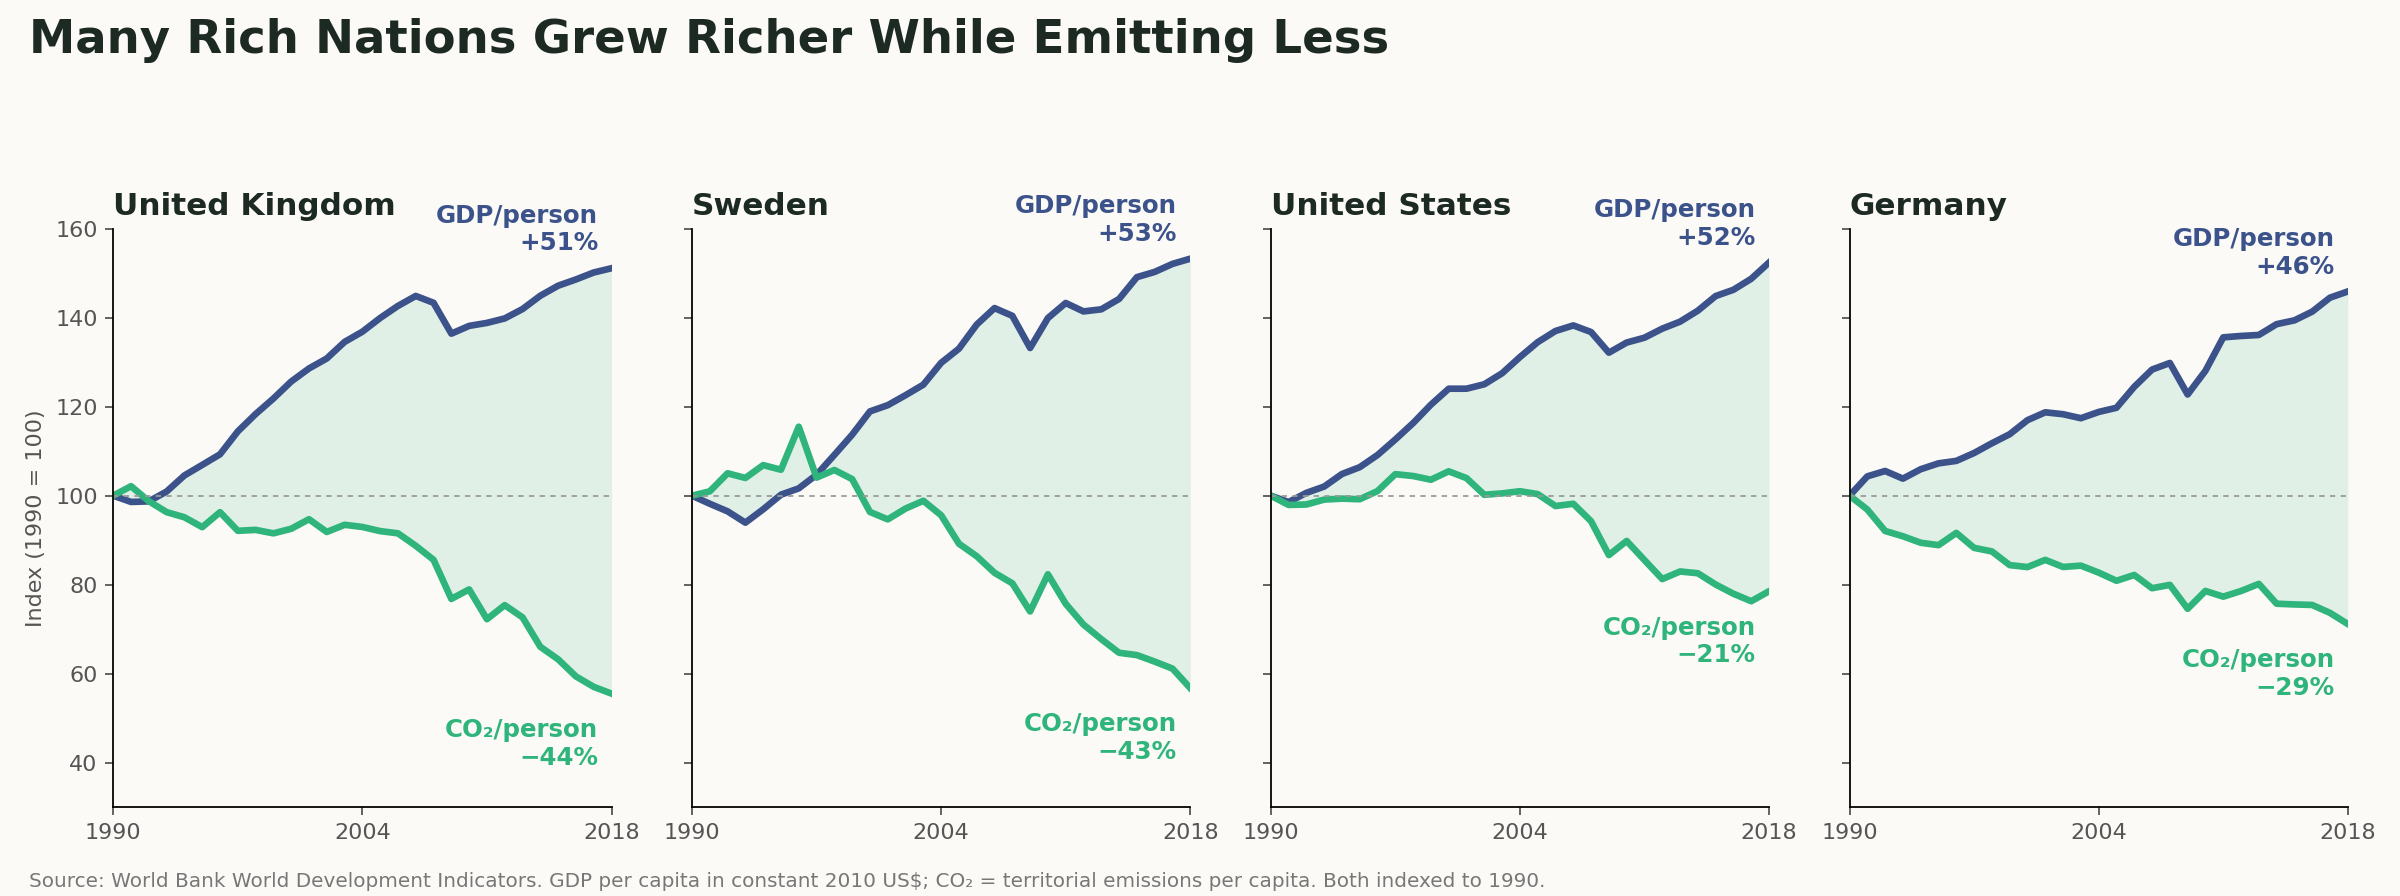
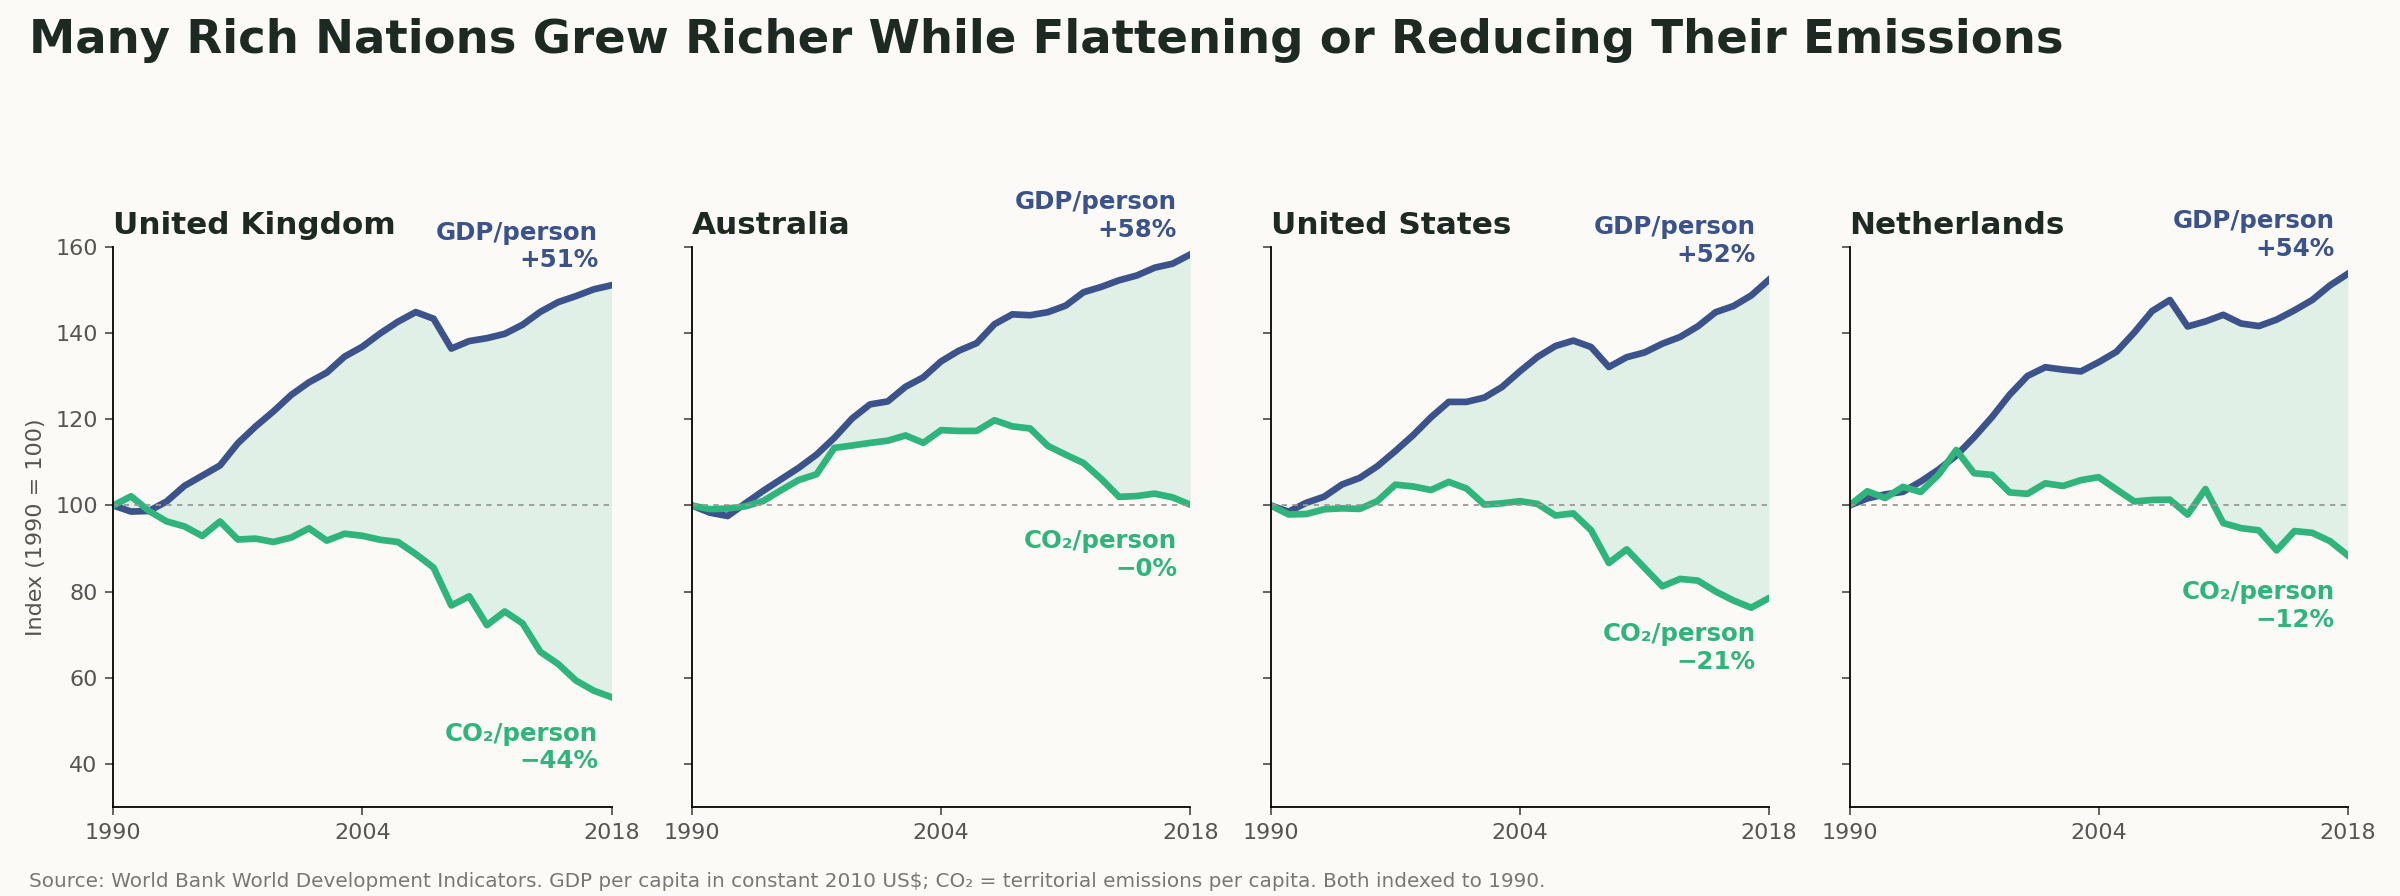
update

diff --git a/projects/project2/index.html b/projects/project2/index.html
@@ -182,23 +182,22 @@
 
         <figure>
           <img src="page1_viz1_decoupling_real_lines.png"
-               alt="Four small-multiple line charts for the United Kingdom, Sweden, United States and Germany, 1990 to 2018. In each, GDP per person (blue) rises above an index of 100 while CO2 per person (green) falls below it, with the gap between them shaded green.">
-          <figcaption>GDP and CO<sub>2</sub> per person, indexed to 1990 (=100) levels, for four high-income countries. In each country the economy grew while per-capita emissions fell.</figcaption>
+               alt="Four small-multiple line charts for the United Kingdom, Australia, United States and Netherlands, 1990 to 2018. In each, GDP per person (blue) rises above an index of 100 while CO2 per person (green) falls below it, with the gap between them shaded green.">
+          <figcaption>GDP and CO<sub>2</sub> per person, indexed to 1990 (=100) levels, for four high-income countries. In each country the economy grew while per-capita emissions fell or flattened.</figcaption>
         </figure>
 
         <p>Design Decisions and Rationale:</p>
 
         <ul>
           <li>
-            <span class="score dec">−1</span>
-            <strong>Hand-picked countries with 1990 as a reference point.</strong>
+            <span class="score dec">−0.5</span>
+            <strong>Hand-picked countries representing different regions with 1990 as a reference point.</strong>
             The visualization hand picks four countries that exhibit success stories in recent history. The index on the 
             left axis is set to 100 in 1990, for both carbon and dollars, so that the reader can quickly see the scissor
             effect of rising GDP and falling emissions. The choice of 1990 is not arbitrary, as it is the baseline year used by the Kyoto Protocol.
-            This is cherry-picking but not of a trend that doesn't exist; 24 of the 41 high-income countries with data grew GDP per person while cutting CO<sub>2</sub>
-            per person, so the direction shown is true for a majority. What the selection exaggerates is the size of the effect.
-            These four cut per-person emissions by 21-44%, while the median rich country cut them by only 10%. A reader leaves with 
-            the right direction but an inflated sense of how far most countries have come.
+            This is cherry-picking but not of a trend that doesn't exist; 24 of the 41 high-income countries with data grew GDP per person while cutting CO<sub>2</sub> per person, 
+            and the median change in emissions was -10%. I deliberately chose a range rather than only the best cases, so the sample sits closer to the typical rich country. 
+            It is still a hand-picked sample of four, and the reader may generalize incorrectly.
 
             Alternatives considered: I rejected plotting every rich country because it was too cluttered to read. I rejected other start years because they were less persuasive, and
             1990 has a policy justification (Kyoto).
@@ -223,10 +222,9 @@
             Alternatives considered: I rejected a red or grey line for emissions because it framed the CO<sub>2</sub> line as a threat rather than a success.
           </li>
           <li>
-            <span class="score dec">−1</span>
+            <span class="score dec">−0.5</span>
             <strong>Title framing</strong>
-            The title says "Many Rich Nations" even though only four hand-picked countries are shown, which invites the reader to
-            generalize. The bold end-labels then hand the reader the takeaway before they examine the charts.
+            The title hedges with "flattening" so that it stays accurate for Australia, but it still generalizes from four hand-picked countries to "many rich nations."
             Alternatives considered: I rejected a neutral title such as "GDP and Emissions in Four Countries, 1990–2018"
             because it would not have been as persuasive.
           </li>
@@ -253,7 +251,7 @@
             ignores any temporal dynamics within countries. The reason for this is to use the point in time correlation
             as it is easy to interpret and to avoid the complexity of showing a time series for every country.
           
-            Alternatives considered: I rejected a time series because it would have been too cluttered to read, and 
+            Alternatives considered: I rejected a time series because it would have shown some countries improving which would weaken the argument, and 
             I rejected a single-country time series because it would not have been as persuasive of the argument.
           </li>
           <li>
